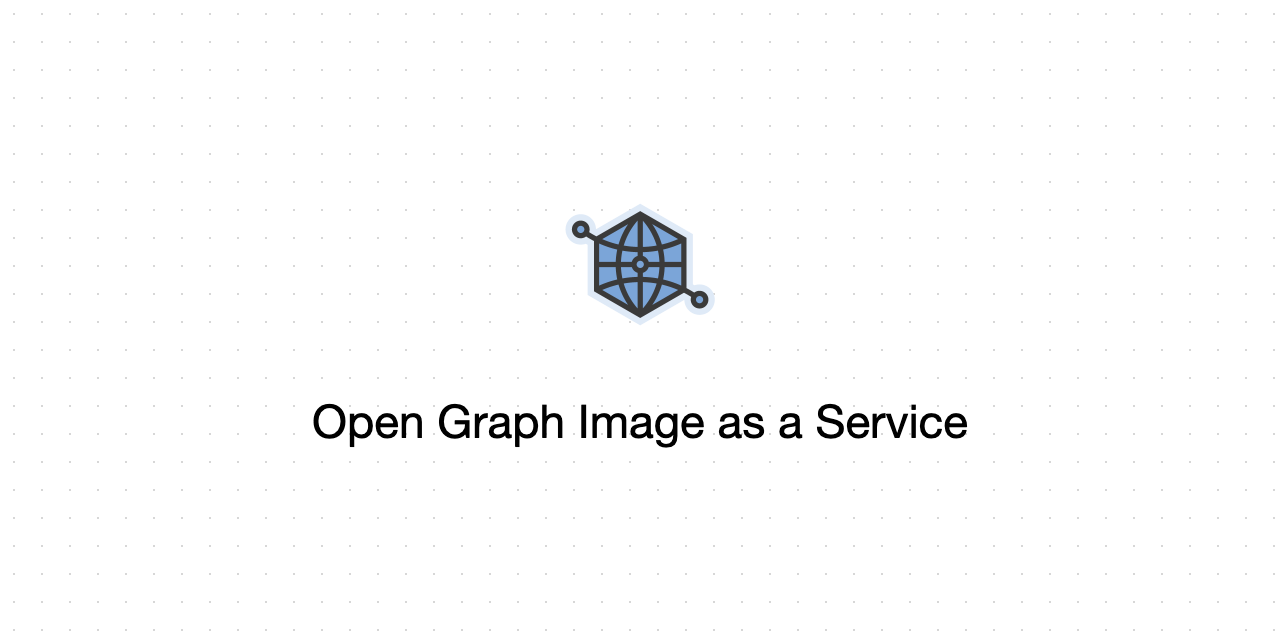
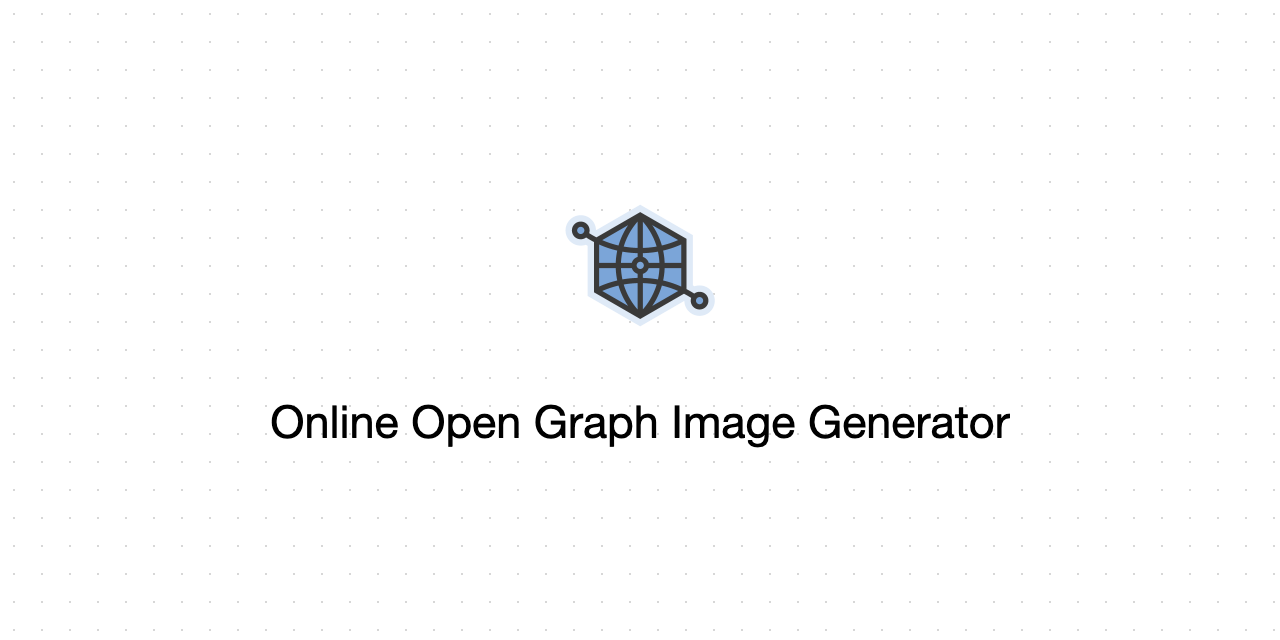
tweaks

Changed region(s): [[0.1875, 0.625, 0.7812, 0.7188], [0.4375, 0.3438, 0.5625, 0.5]]

diff --git a/pages/index.vue b/pages/index.vue
@@ -55,7 +55,7 @@
     <div class="introduction">
       <h2>What is this?</h2>
       <p>
-        A quick and simple way to create a image as social media preview. This works by using <a href="https://github.com/tsayen/dom-to-image" target="_blank">dom-to-imagea</a> to generate an image from a DOM node, while <a href="https://og-image.now.sh/" target="_blank">og-image.now.sh</a> uses Chrome headless under the hood to take a screenshot of the web page.
+        A quick and simple way to create a image as social media preview. This works by using <a href="https://github.com/tsayen/dom-to-image" target="_blank">dom-to-image</a> to generate an image from a DOM node, while <a href="https://og-image.now.sh/" target="_blank">og-image.now.sh</a> uses Chrome headless under the hood to take a screenshot of the web page.
       </p>
     </div>
 

diff --git a/saber-config.js b/saber-config.js
@@ -1,5 +1,5 @@
 module.exports = {
   siteConfig: {
-    title: 'Open Graph Image as a Service'
+    title: 'Online Open Graph Image Generator'
   }
 }

diff --git a/README.md b/README.md
@@ -1,6 +1,6 @@
 # ogi.egoist.sh
 
-Open Graph Image as a Service.
+Online Open Graph Image Generator.
 
 ## Development
 
